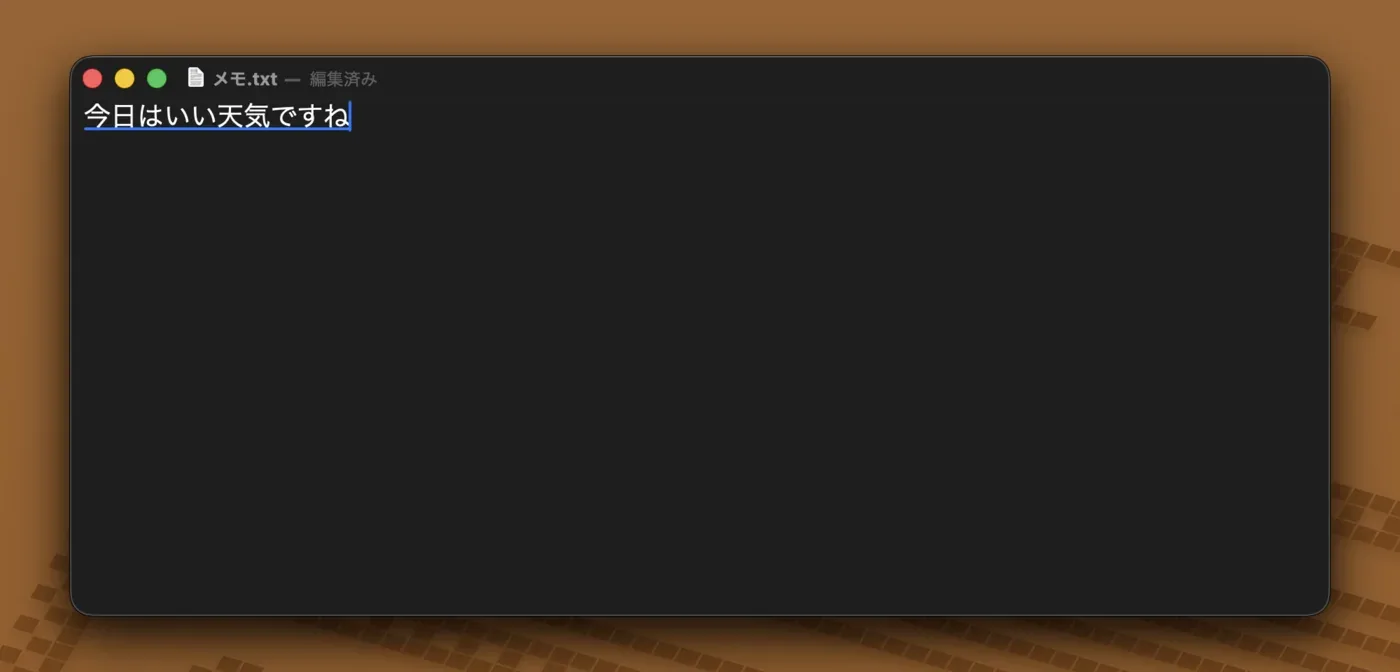
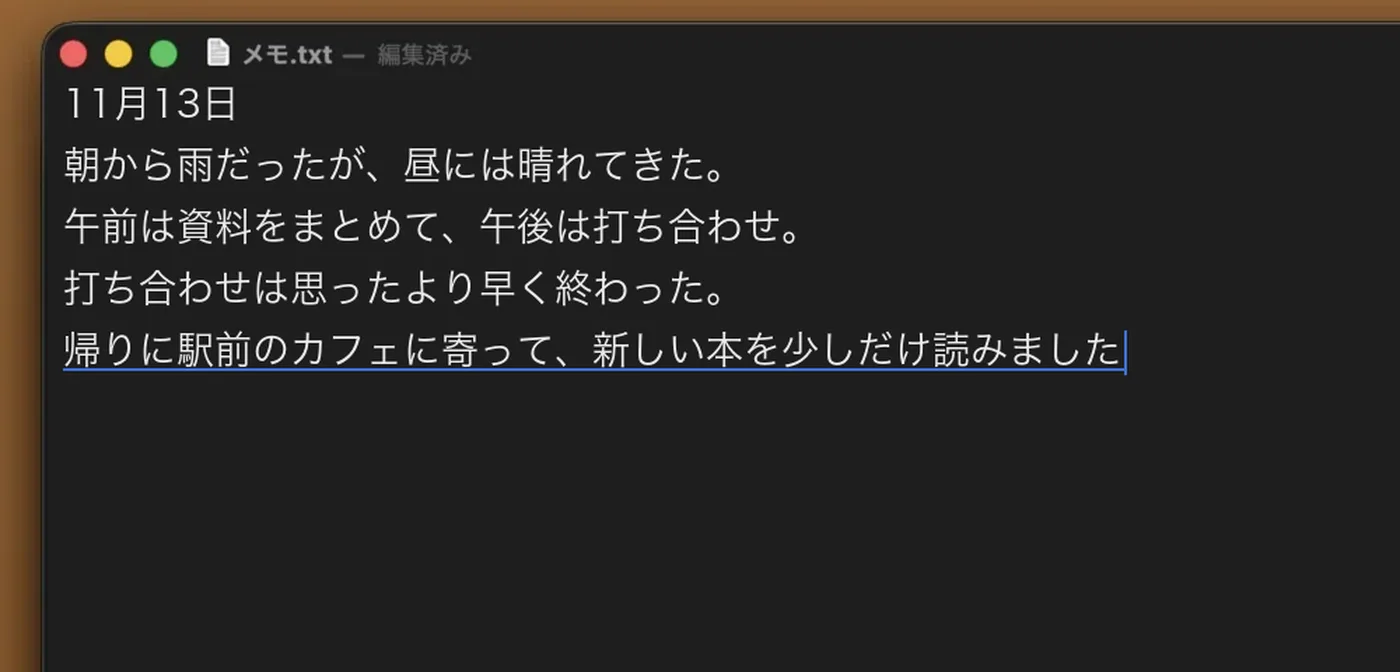
fix(design): ライブ変換と補正の写真を，メモの窓の左上を切り抜いて拡大し，中身が幅の大部分を占めるようにする

Changed region(s): [[0.0, 0.0, 1.0, 1.0], [0.3379, 0.3125, 0.5836, 0.375]]

diff --git a/apps/docs-site/content/_index.md b/apps/docs-site/content/_index.md
@@ -47,7 +47,7 @@ layout: hextra-home
     subtitle="Space を押さなくても，打つそばから漢字に変換され，Enter で確定できます．"
     link="docs/usage/#変換と確定"
     image="images/features/live-conversion.webp"
-    alt="テキストエディットで kyouhaiitenkidesune と打ち，「今日はいい天気ですね」と表示されている"
+    alt="テキストエディットのメモで，打っている途中の文が「帰りに駅前のカフェに寄って、新しい本を少しだけ読みました」と漢字に変換されている"
   >}}
   {{< hajime/feature
     title="変換候補をツリー表示"
